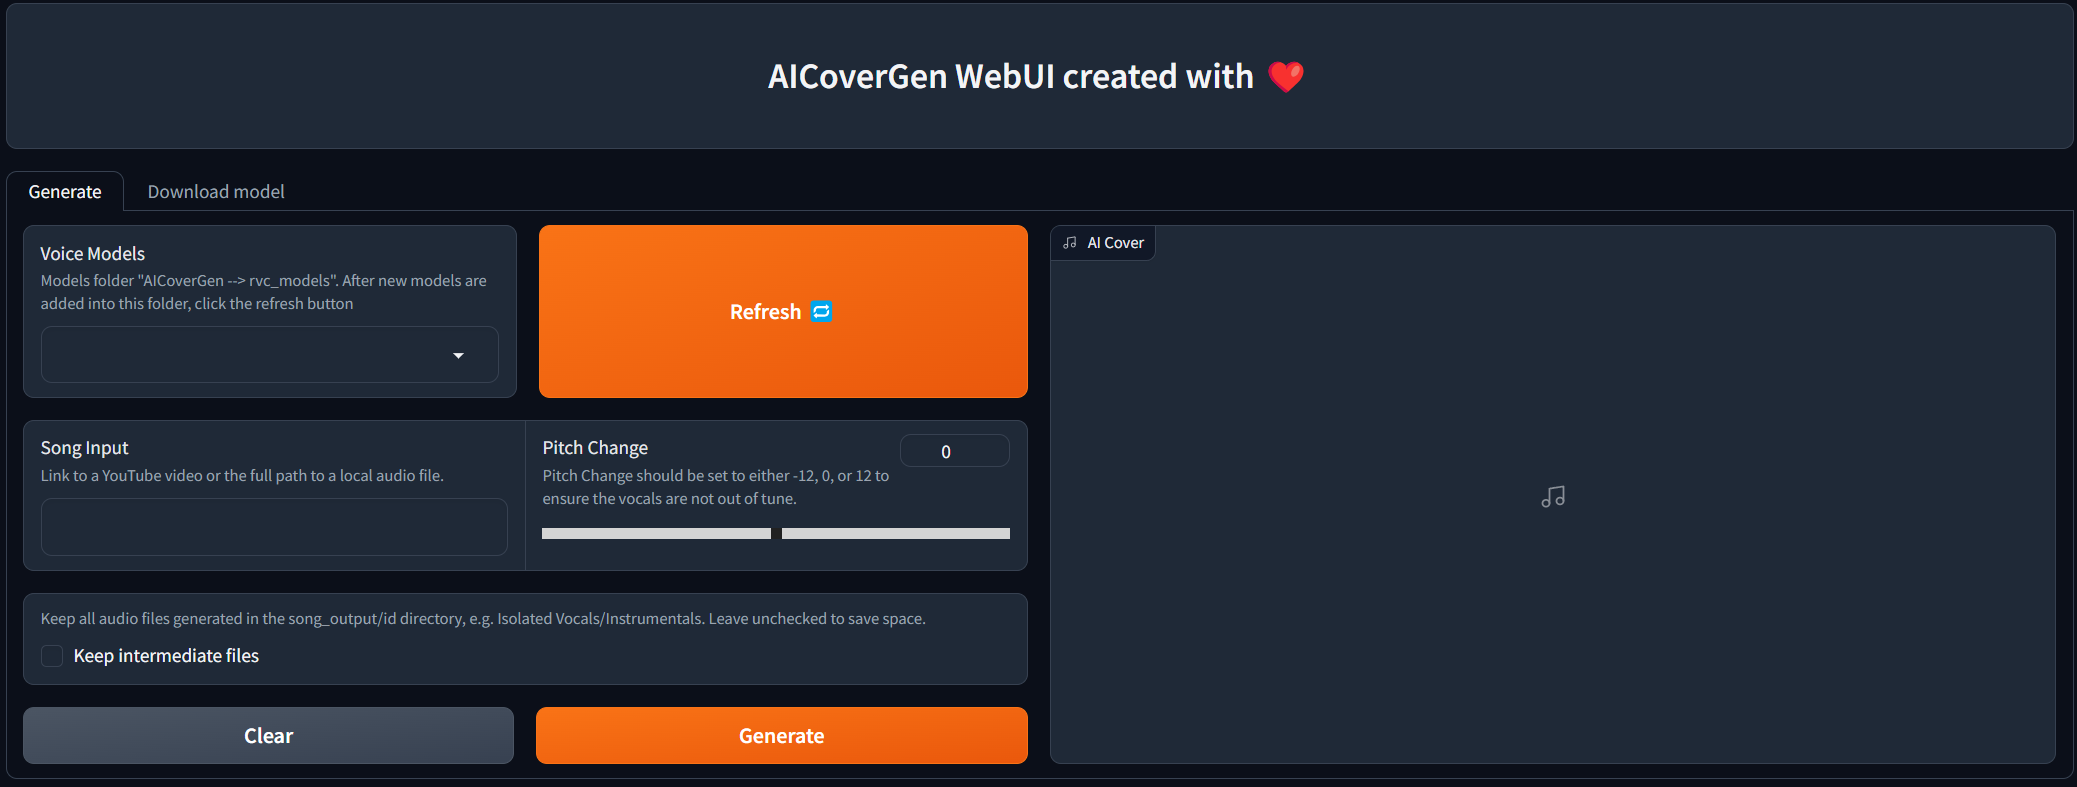
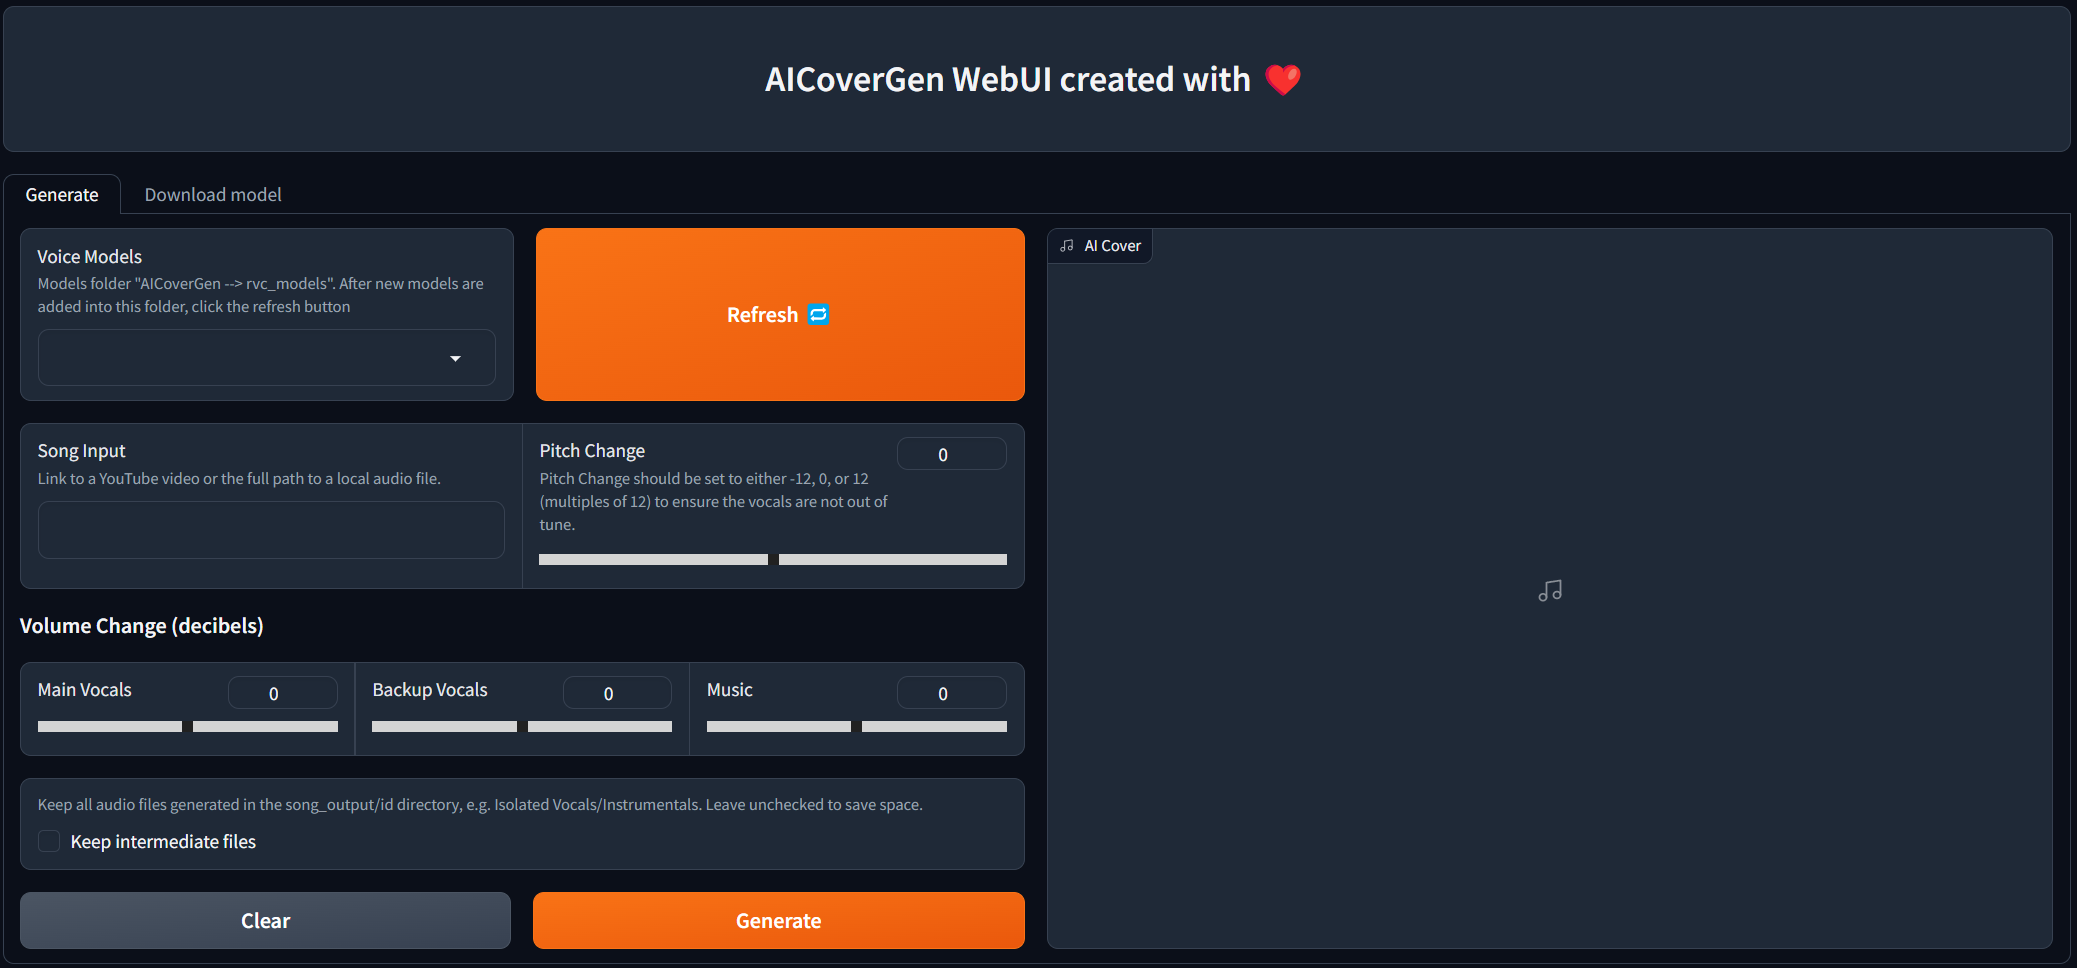
feat: Volume control of main, backup vocals and instrumentals

Changed region(s): [[0.0, 0.0, 1.0, 1.0], [0.3698, 0.061, 0.6471, 0.122], [0.7395, 0.6099, 0.7703, 0.6404]]

diff --git a/src/main.py b/src/main.py
@@ -188,14 +188,14 @@ def add_audio_effects(audio_path):
     return output_path
 
 
-def combine_audio(audio_paths, output_path):
-    main_vocal_audio = AudioSegment.from_wav(audio_paths[0]) - 4
-    backup_vocal_audio = AudioSegment.from_wav(audio_paths[1]) - 6
-    instrumental_audio = AudioSegment.from_wav(audio_paths[2]) - 7
+def combine_audio(audio_paths, output_path, main_gain, backup_gain, inst_gain):
+    main_vocal_audio = AudioSegment.from_wav(audio_paths[0]) - 4 + main_gain
+    backup_vocal_audio = AudioSegment.from_wav(audio_paths[1]) - 6 + backup_gain
+    instrumental_audio = AudioSegment.from_wav(audio_paths[2]) - 7 + inst_gain
     main_vocal_audio.overlay(backup_vocal_audio).overlay(instrumental_audio).export(output_path, format='mp3')
 
 
-def song_cover_pipeline(song_input, voice_model, pitch_change, keep_files, is_webui=0, progress=gr.Progress()):
+def song_cover_pipeline(song_input, voice_model, pitch_change, keep_files, is_webui=0, main_gain=0, backup_gain=0, inst_gain=0, progress=gr.Progress()):
     try:
         if not song_input or not voice_model:
             raise_exception('Ensure that the song input field and voice model field is filled.', is_webui)
@@ -241,7 +241,7 @@ def song_cover_pipeline(song_input, voice_model, pitch_change, keep_files, is_we
                 orig_song_path, instrumentals_path, main_vocals_dereverb_path, backup_vocals_path = paths
 
         ai_vocals_path, ai_vocals_mixed_path = None, None
-        ai_cover_path = os.path.join(song_dir, f'{os.path.splitext(os.path.basename(orig_song_path))[0]} ({voice_model} Ver {pitch_change}).mp3')
+        ai_cover_path = os.path.join(song_dir, f'{os.path.splitext(os.path.basename(orig_song_path))[0]} ({voice_model} Ver {pitch_change} {main_gain}{backup_gain}{inst_gain}).mp3')
 
         if not os.path.exists(ai_cover_path):
             display_progress('[~] Converting voice using RVC...', 0.5, is_webui, progress)
@@ -251,7 +251,7 @@ def song_cover_pipeline(song_input, voice_model, pitch_change, keep_files, is_we
             ai_vocals_mixed_path = add_audio_effects(ai_vocals_path)
 
             display_progress('[~] Combining AI Vocals and Instrumentals...', 0.9, is_webui, progress)
-            combine_audio([ai_vocals_mixed_path, backup_vocals_path, instrumentals_path], ai_cover_path)
+            combine_audio([ai_vocals_mixed_path, backup_vocals_path, instrumentals_path], ai_cover_path, main_gain, backup_gain, inst_gain)
 
         if not keep_files:
             display_progress('[~] Removing intermediate audio files...', 0.95, is_webui, progress)
@@ -272,11 +272,14 @@ if __name__ == '__main__':
     parser.add_argument('-dir', '--rvc-dirname', type=str, required=True, help='Name of the folder in the rvc_models directory containing the RVC model file and optional index file to use')
     parser.add_argument('-p', '--pitch-change', type=int, required=True, help='Change the pitch of the AI voice. Generally use 12 for male to female conversions and -12 for vice-versa. Use 0 for no change')
     parser.add_argument('-k', '--keep-files', action=argparse.BooleanOptionalAction, help='Whether to keep all intermediate audio files generated in the song_output/id directory, e.g. Isolated Vocals/Instrumentals')
+    parser.add_argument('-mv', '--main-vol', type=int, default=0, help='Volume change for AI main vocals in decibels. Use -3 to decrease by 3 decibels and 3 to increase by 3 decibels.')
+    parser.add_argument('-bv', '--backup-vol', type=int, default=0, help='Volume change for backup vocals in decibels.')
+    parser.add_argument('-iv', '--inst-vol', type=int, default=0, help='Volume change for instrumentals in decibels.')
     args = parser.parse_args()
 
     rvc_dirname = args.rvc_dirname
     if not os.path.exists(os.path.join(rvc_models_dir, rvc_dirname)):
         raise Exception(f'The folder {os.path.join(rvc_models_dir, rvc_dirname)} does not exist.')
 
-    cover_path = song_cover_pipeline(args.song_input, rvc_dirname, args.pitch_change, args.keep_files)
+    cover_path = song_cover_pipeline(args.song_input, rvc_dirname, args.pitch_change, args.keep_files, main_gain=args.main_vol, backup_gain=args.backup_vol, inst_gain=args.inst_vol)
     print(f'[+] Cover generated at {cover_path}')

diff --git a/src/webui.py b/src/webui.py
@@ -149,16 +149,23 @@ if __name__ == '__main__':
                         song_input = gr.Text(label='Song Input', info='Link to a YouTube video or the full path to a local audio file.')
                         pitch = gr.Slider(-24, 24, value=0, step=1, label='Pitch Change', info='Pitch Change should be set to either -12, 0, or 12 (multiples of 12) to ensure the vocals are not out of tune.')
 
+                    gr.Markdown('### Volume Change (decibels)')
+                    with gr.Row():
+                        main_gain = gr.Slider(-20, 20, value=0, step=1, label='Main Vocals')
+                        backup_gain = gr.Slider(-20, 20, value=0, step=1, label='Backup Vocals')
+                        inst_gain = gr.Slider(-20, 20, value=0, step=1, label='Music')
+
                     keep_files = gr.Checkbox(label='Keep intermediate files', info='Keep all audio files generated in the song_output/id directory, e.g. Isolated Vocals/Instrumentals. Leave unchecked to save space.')
 
                     with gr.Row():
-                        clear_btn = gr.ClearButton(value='Clear', components=[song_input, rvc_model, pitch])
+                        clear_btn = gr.ClearButton(value='Clear', components=[song_input, rvc_model, keep_files])
                         generate_btn = gr.Button("Generate", variant='primary')
 
                 ai_cover = gr.Audio(label='AI Cover', show_share_button=False)
                 ref_btn.click(update_models_list, None, outputs=rvc_model)
                 is_webui = gr.Number(value=1, visible=False)
-                generate_btn.click(song_cover_pipeline, inputs=[song_input, rvc_model, pitch, keep_files, is_webui], outputs=[ai_cover])
+                generate_btn.click(song_cover_pipeline, inputs=[song_input, rvc_model, pitch, keep_files, is_webui, main_gain, backup_gain, inst_gain], outputs=[ai_cover])
+                clear_btn.click(lambda: [0] * 4, outputs=[pitch, main_gain, backup_gain, inst_gain])
 
         # Download tab
         with gr.Tab("Download model"):

diff --git a/README.md b/README.md
@@ -17,6 +17,7 @@ WebUI is under constant development and testing, but you can try it out right no
 - Download suggested public voice models from table with search/tag filters
 - Support for Pixeldrain download links for voice models
 - Implement new rmvpe pitch extraction technique for faster and higher quality vocal conversions
+- Volume control for AI main vocals, backup vocals and instrumentals
 
 ## Colab notebook
 
@@ -83,6 +84,7 @@ Once the 2 input fields are filled in, simply click `Download`! Once the output 
 - From the Voice Models dropdown menu, select the voice model to use. Click `Update` if you added the files manually to the [rvc_models](rvc_models) directory to refresh the list.
 - In the song input field, copy and paste the link to any song on YouTube or the full path to a local audio file.
 - Pitch should be set to either -12, 0, or 12 depending on the original vocals and the RVC AI modal. This ensures the voice is not *out of tune*.
+- Volume change controls how loud the vocals or instrumentals should be.
 - Keep intermediate files can be checked to keep all intermediate audio files generated. e.g. Isolated AI vocals/instrumentals.
 
 Once all fields are filled in, click `Generate` and the AI generated cover should appear in a less than a few minutes depending on your GPU.
@@ -114,13 +116,14 @@ The directory structure should look something like this:
 To run the AI cover generation pipeline using the command line, run the following command.
 
 ```
-python src/main.py -i SONG_INPUT -dir MODEL_DIR_NAME -p PITCH_CHANGE [-k]
+python src/main.py [-h] -i SONG_INPUT -dir RVC_DIRNAME -p PITCH_CHANGE [-k | --keep-files | --no-keep-files] [-mv MAIN_VOL] [-bv BACKUP_VOL] [-iv INST_VOL]
 ```
 
 - Replace SONG_INPUT with any link to a song on YouTube or path to a local audio file. This should be enclosed in double quotes for Windows and single quotes for Unix-like systems.
 - Replace MODEL_DIR_NAME with the name of the folder in the [rvc_models](rvc_models) directory containing your `.pth` and `.index` files.
 - Replace PITCH_CHANGE with 0 for no change in pitch to the AI vocals. Generally use 12 for male to female conversions or -12 for vice-versa.
 - The -k flag is optional, and can be added to keep all intermediate audio files generated. e.g. Isolated AI vocals/instrumentals. Leave out to save space.
+- The -mv, -bv and -iv flags are also optional, and control the volume of the main, backup vocals and instrumentals. Use -3 to decrease the volume by 3 decibels, or 3 to increase the volume by 3 decibels.
 
 ## Terms of Use
 
